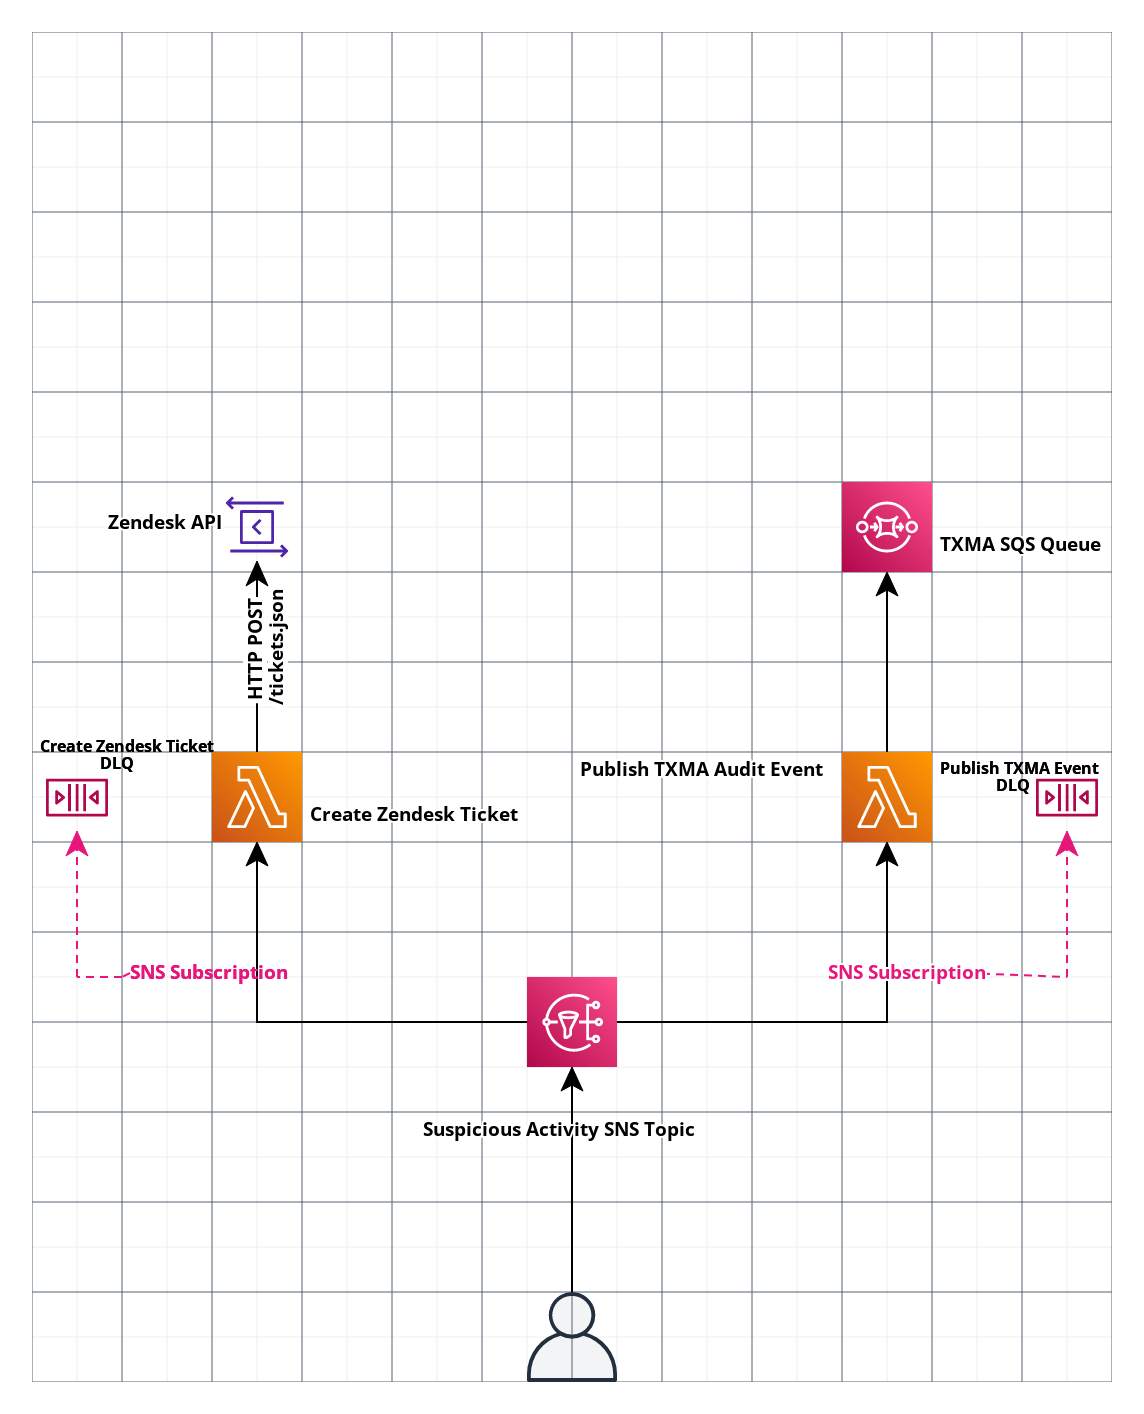
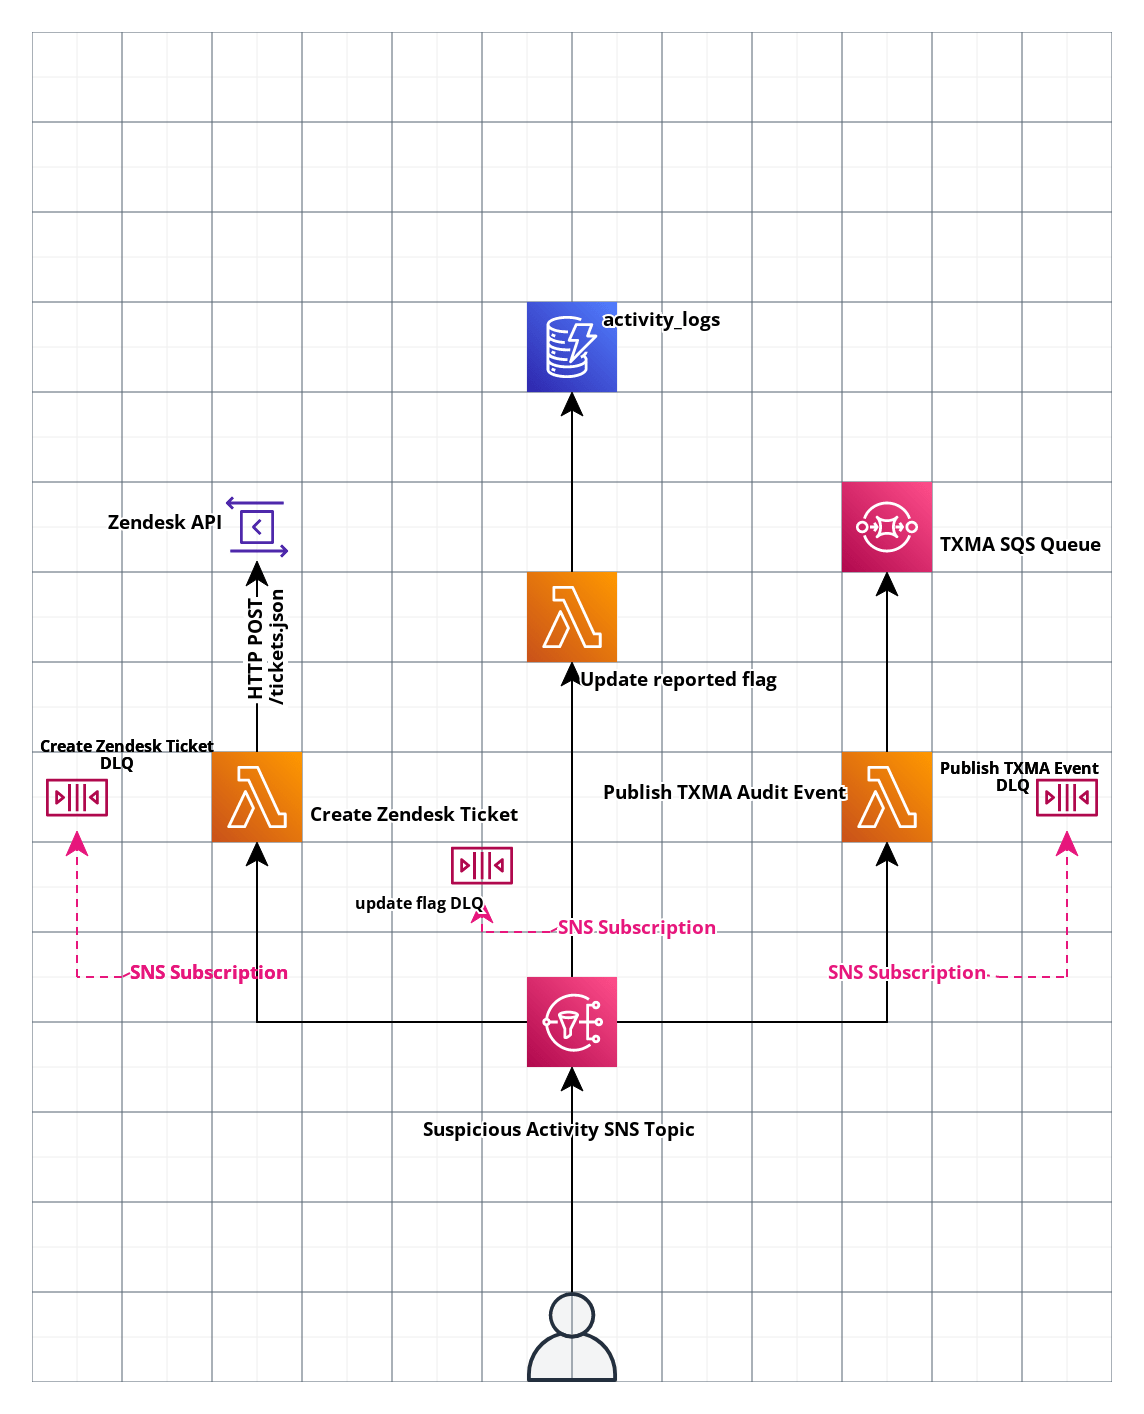
Update the ADR to include a lambda to add a reported flag to the dynamo table

diff --git a/docs/adr/0008-report-a-suspicious-activity.md b/docs/adr/0008-report-a-suspicious-activity.md
@@ -3,6 +3,7 @@
 ## Summary
 - We will create a Zendesk ticket when an activity is reported .
 - We need to publish an audit event to [TXMA] (https://govukverify.atlassian.net/wiki/spaces/TMA/pages/3414753375/Introduction+to+TxMA) which will be consumed by the fraud team.
+- Update the reported flag in `activity_logs` dynamo table
 
 ## Context
 
@@ -15,6 +16,8 @@ We need to make sure that:
 - When a user submits a report, Zendesk will create a ticket containing the right information in the TICF 2nd line group.
 
 - An audit event is created in TXMA which can then be distributed out from there.
+
+- The repoted flag on the activity_logs table should be updated to true. This will ensure that the event is repoted only once.
 
 - The user gets an immediate auto-response setting their expectations as to what will happen next
 
@@ -29,6 +32,7 @@ The format of the SNS payload should be
     user_id: USER_ID,
     email_address: USER_EMAIL
     persistent_session_id: CURRENT_SESSION_ID,
+    reported: true
     reported_event: {
         event_type: EVENT_TYPE,
         session_id: SESSION_ID,
@@ -46,7 +50,7 @@ The format of the SNS payload should be
 }
 ```
 
-We will subscribe 2 lambda to the topic for now.
+We will subscribe 3 lambda to the topic for now.
 
 The first lambda will take the details and create a payload with the relevant information.
 This lambda is responsible for making an HTTP POST to the /tickets.json endpoint on the [Zendesk API](https://developer.zendesk.com/api-reference/ticketing/tickets/tickets/) allowing the creation of a ticket.
@@ -57,6 +61,8 @@ The second lambda will publish an audit event to TXMA.
 This can be achieved by sending a message with the correct fields on the TXMA SQS queue.
 This will be received by the teams pulling from the SQS.
 Similar to the other lambda, a DLQ will be configured on the subscription so that messages which can’t be delivered to the Lambda or those that fail validation  are redirected to the queue for further analysis or reprocessing.
+
+The third lambda is to update the activity_logs dynamo db table and add a reported flag. This flag is checked before the user is allowed to report an event. If the flag is set then the user will be unabe to report the particular event. We want to keep this labda seperate from the write_activity_log lambda because we want to only allow the reported flag to be added and all the other feilds should be untouched.
 
 ### Diagram
 
